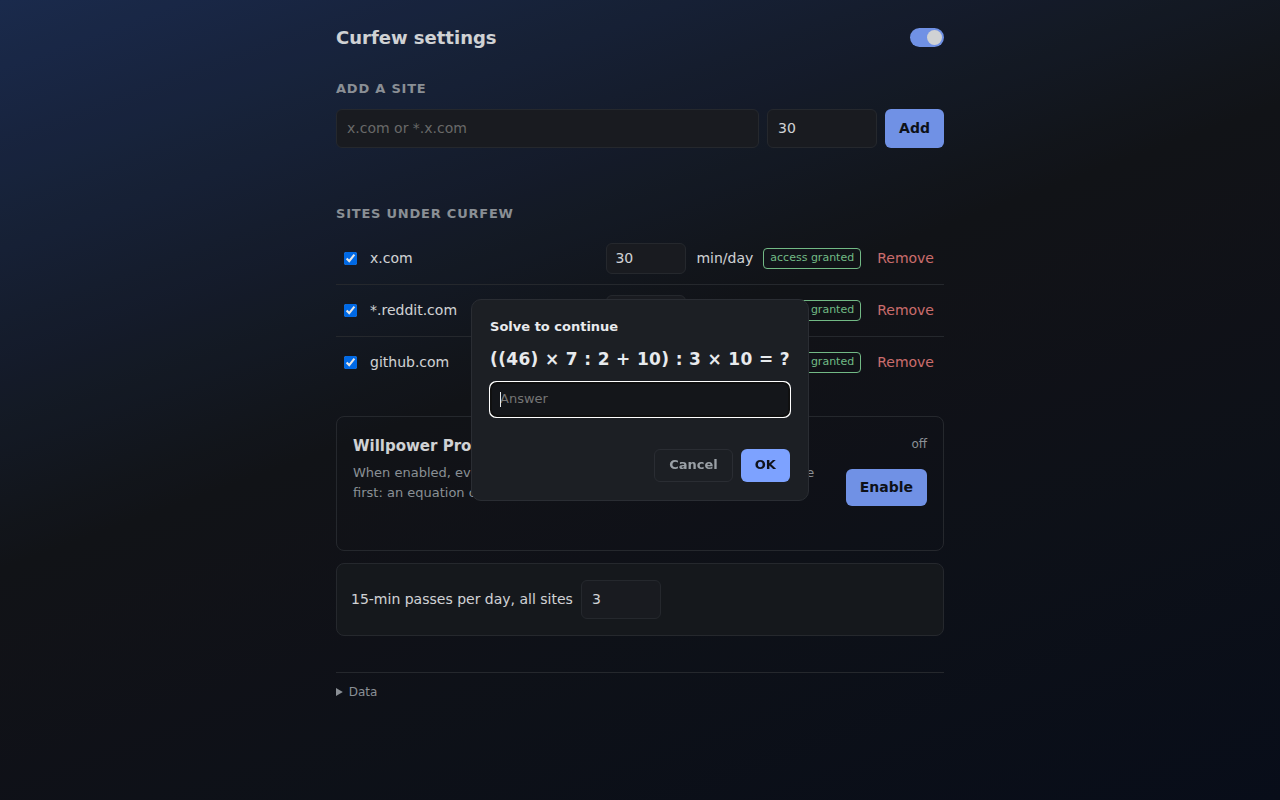
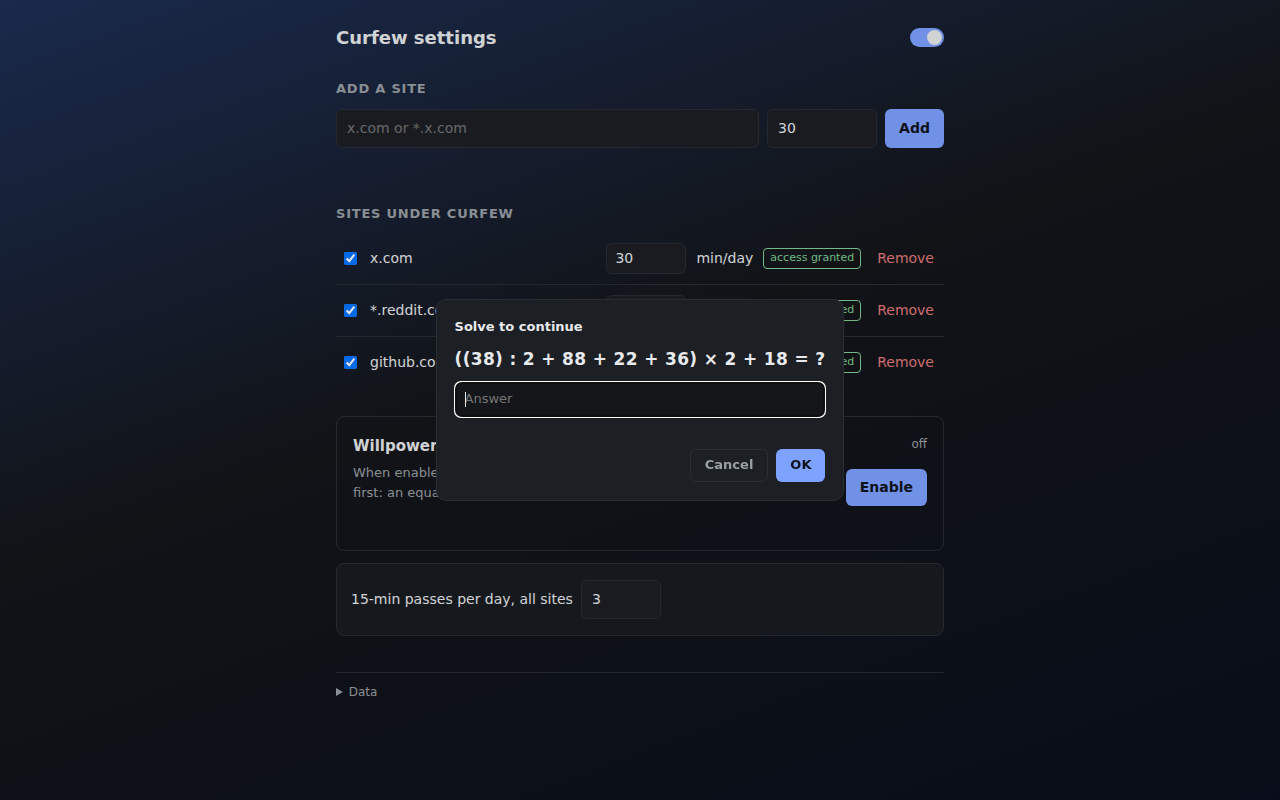
docs: screenshot filmstrip on the landing, full-size shots in details

diff --git a/README.md b/README.md
@@ -50,12 +50,17 @@ YOU choose, with budgets YOU set. A curfew doesn't say "never". It says
 - **Local only** — no accounts, no sync, no analytics, no external calls.
   Uninstalling deletes everything
 
+<img src="docs/screenshots/strip.png" alt="Curfew screenshots" width="100%">
+
+<details>
+<summary><b>Full-size screenshots</b></summary>
 <p>
   <img src="docs/screenshots/popup.png" width="49%">
   <img src="docs/screenshots/wall.png" width="49%">
   <img src="docs/screenshots/challenge.png" width="49%">
   <img src="docs/screenshots/puzzle.png" width="49%">
 </p>
+</details>
 
 ## How it works
 
